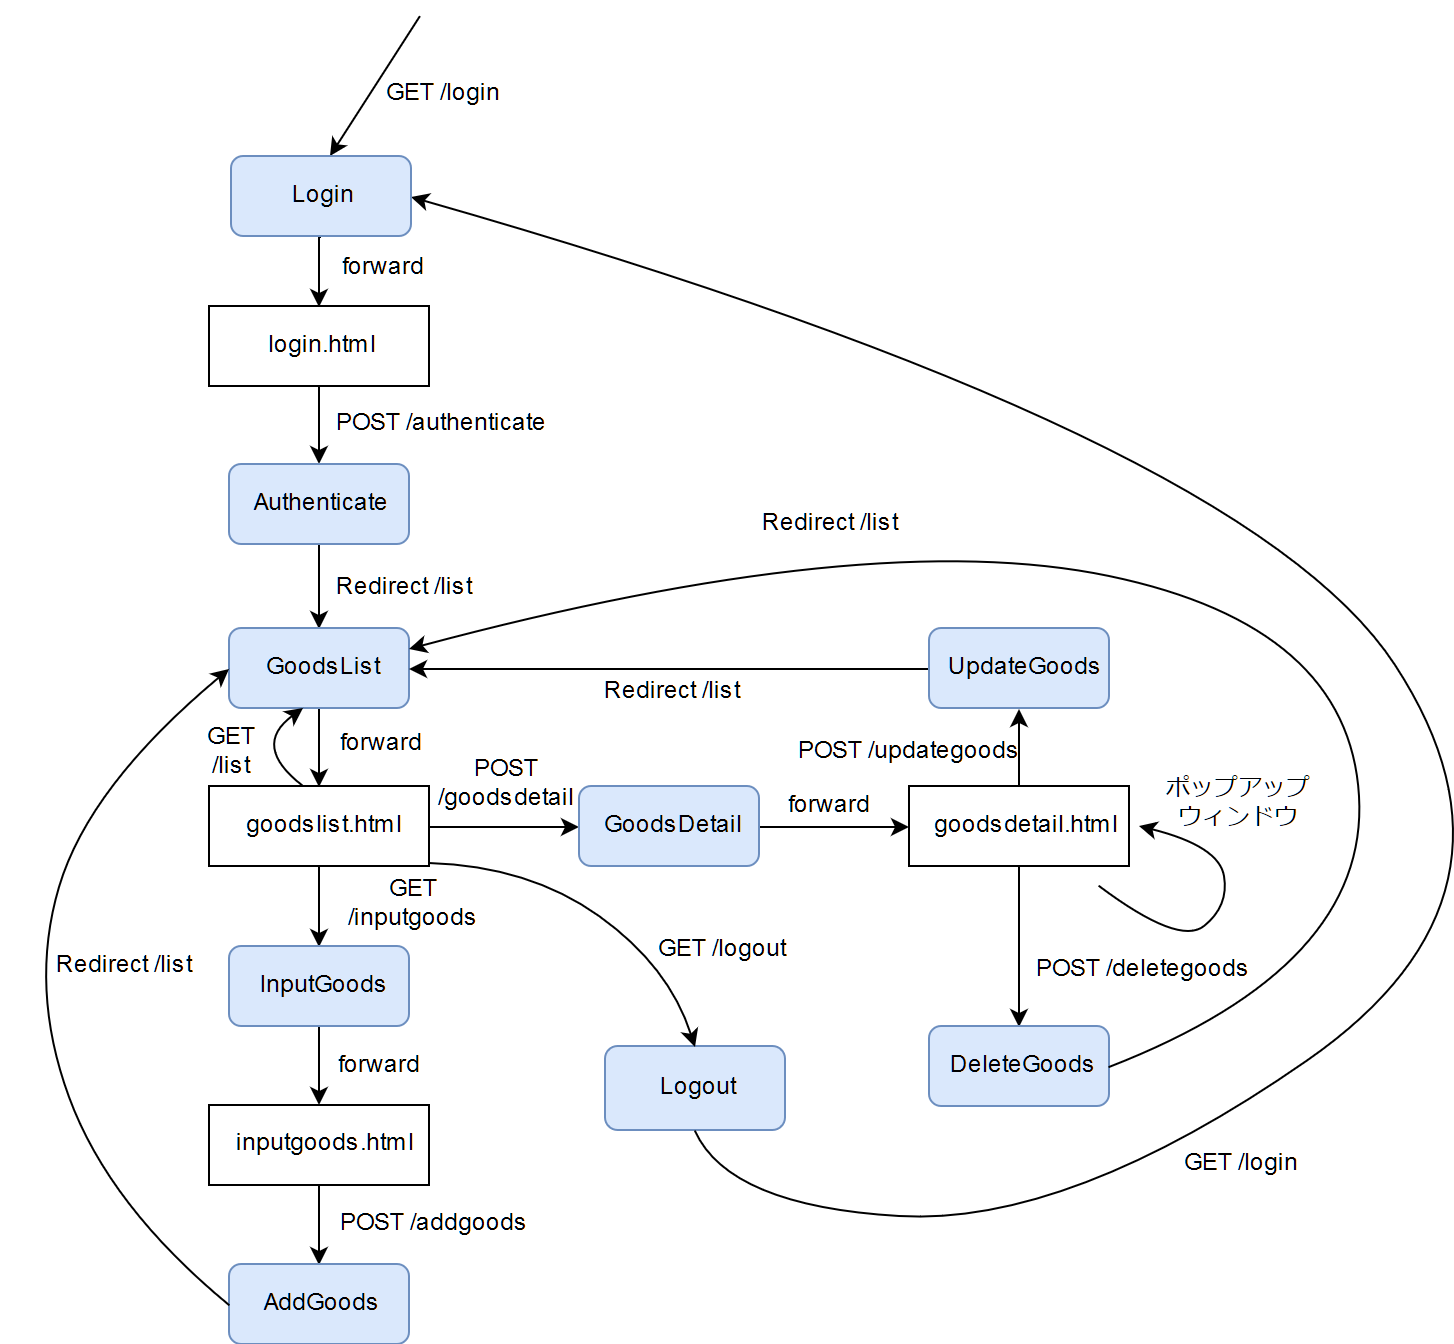
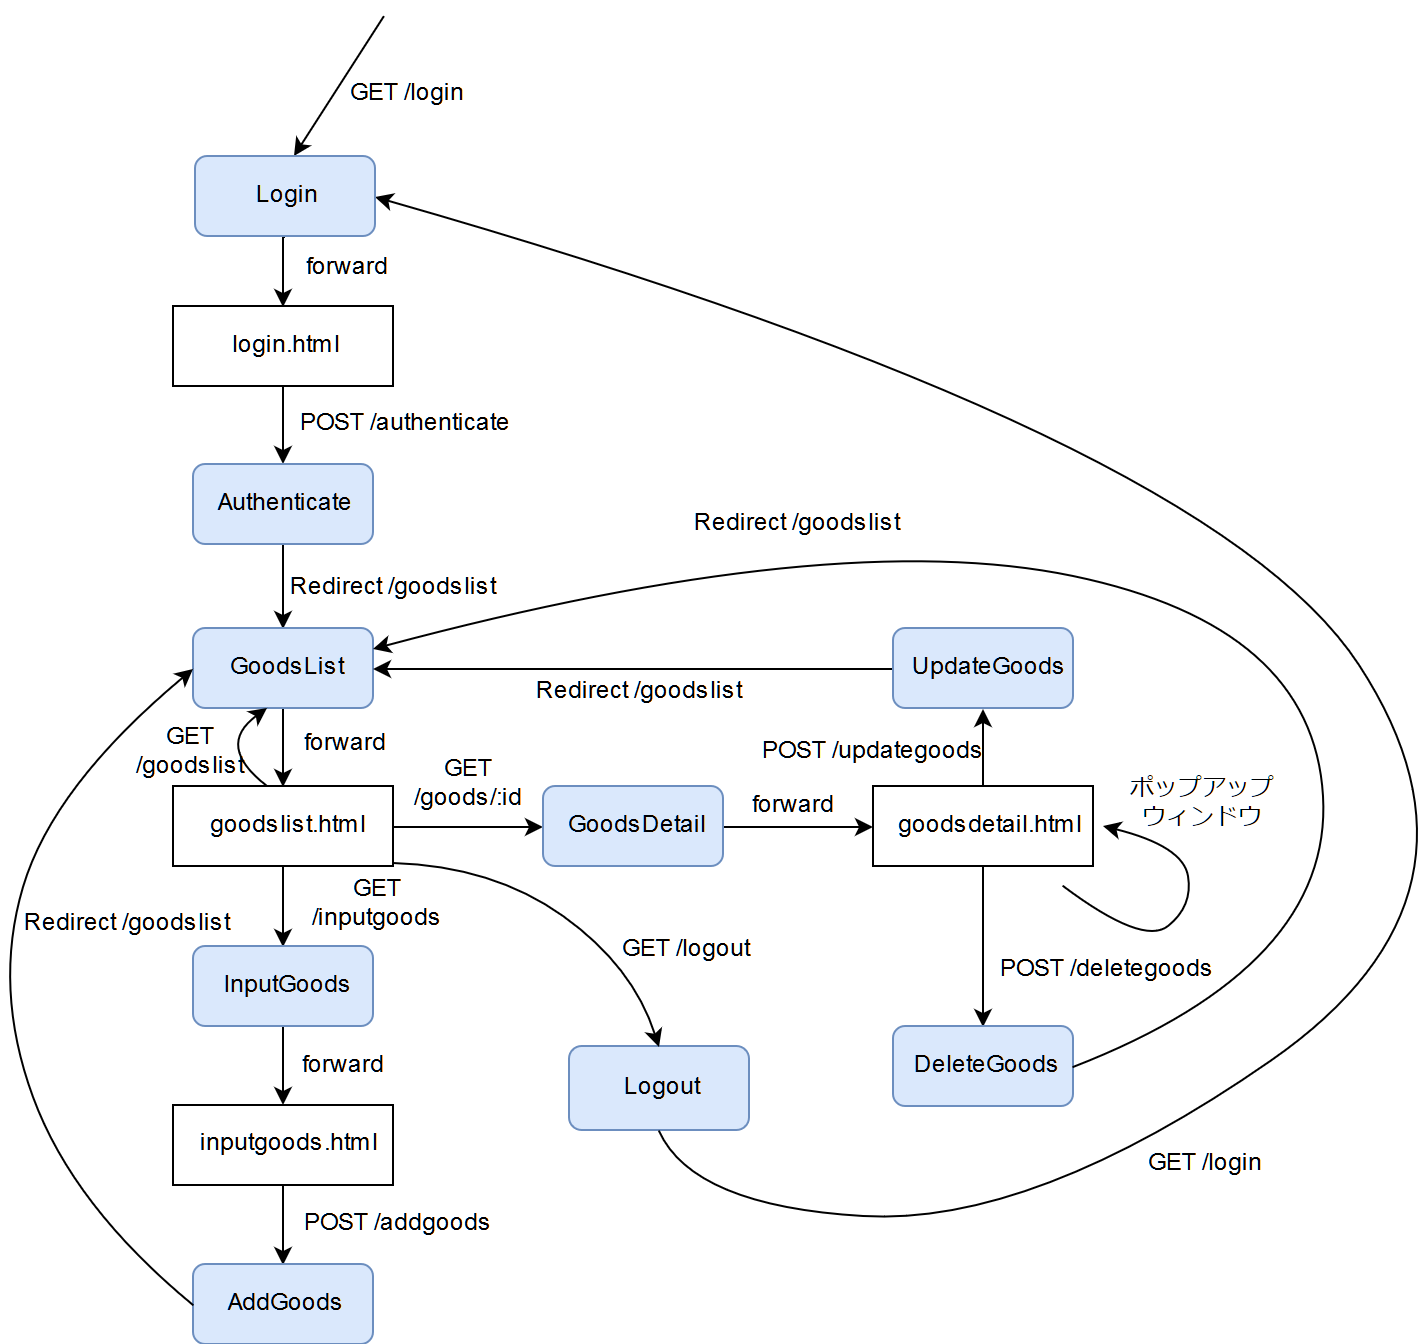
遷移先URLの変更
# Conflicts:
#	docker-compose.yml

diff --git a/go/view/goodslist.html b/go/view/goodslist.html
@@ -16,7 +16,7 @@
       <div class="panel-body">
 
         <div style="display:inline-flex">
-          <form class="form-inline" action="/list" method="GET">
+          <form class="form-inline" action="/goodslist" method="GET">
             <div class="form-group">
               <label class="control-label">商品名:</label>
               <input class="form-control" type="query" name="query" value="" />
@@ -24,7 +24,7 @@
             </div>
           </form>
           &nbsp;
-          <form class="form-inline" action="/list" method="GET">
+          <form class="form-inline" action="/goodslist" method="GET">
             <button class="btn btn-default">一覧</button>
           </form>
         </div>
@@ -54,8 +54,8 @@
               <td>{{ $goods.PurchasePrice }}</td>
               <td>{{ $goods.Stock }}</td>
               <td align="center">
-                <form action="/goodsdetail" method="post">
-                  <input type="hidden" name="goodsid" value={{$goods.GoodsID}}>
+                <form action="/goods/{{$goods.GoodsID}}" method="get">
+                  <!--<input type="hidden" name="goodsid" value={{$goods.GoodsID}}>-->
                   <button class="btn btn-default">詳細</button>
                 </form>
               </td>

diff --git a/go/main.go b/go/main.go
@@ -30,10 +30,10 @@ func main() {
 	router.GET("/login", controller.Login)                // ログインページの表示
 	router.GET("/logout", controller.Logout)              // ログアウト
 	router.POST("/authenticate", controller.Authenticate) // ログイン認証
-	router.GET("/list", controller.GoodsList)             // 商品リスト画面の表示
+	router.GET("/goodslist", controller.GoodsList)        // 商品リスト画面の表示
 	router.GET("/inputgoods", controller.InputGoods)      // 商品追加画面の表示
 	router.POST("/addgoods", controller.AddGoods)         // 商品の追加
-	router.POST("/goodsdetail", controller.GoodsDetail)   // 商品詳細画面の表示
+	router.GET("/goods/:id", controller.GoodsDetail)      // 商品詳細画面の表示
 	router.POST("/updategoods", controller.UpdateGoods)   // 商品情報の更新
 	router.POST("/deletegoods", controller.DeleteGoods)   // 商品情報の削除
 

diff --git a/go/controller/updategoods.go b/go/controller/updategoods.go
@@ -68,10 +68,11 @@ func UpdateGoods(w http.ResponseWriter, r *http.Request, p httprouter.Params) {
 	if flag {
 		// DBに接続、商品追加
 		goods.UpdateGoods()
+		// 商品一覧画面にリダイレクト
+		http.Redirect(w, r, "/goodslist", 301)
 	} else {
-		http.Redirect(w, r, "/list", 301)
+		// 入力エラー時
+		http.Redirect(w, r, "/goods/"+r.PostForm["goodsid"][0], 301)
 	}
 
-	// 商品一覧画面にリダイレクト
-	http.Redirect(w, r, "/list", 301)
 }

diff --git a/go/controller/goodsdetail.go b/go/controller/goodsdetail.go
@@ -32,10 +32,11 @@ func GoodsDetail(w http.ResponseWriter, r *http.Request, p httprouter.Params) {
 	displayGoodsDetail.Makers = model.SelectAllMaker()
 
 	// フォームの解析
-	r.ParseForm()
+	//r.ParseForm()
 
 	// GoodsIDの取得
-	goodsid, err := strconv.Atoi(r.PostForm["goodsid"][0])
+	//goodsid, err := strconv.Atoi(r.PostForm["goodsid"][0])
+	goodsid, err := strconv.Atoi(p.ByName("id"))
 	if err != nil {
 		log.Fatal(err)
 	}

diff --git a/go/controller/authenticate.go b/go/controller/authenticate.go
@@ -78,7 +78,7 @@ func Authenticate(w http.ResponseWriter, r *http.Request, p httprouter.Params) {
 			http.SetCookie(w, &cookie)
 
 			// 商品一覧ページにリダイレクト
-			http.Redirect(w, r, "/list", 302)
+			http.Redirect(w, r, "/goodslist", 302)
 
 		} else {
 			// 認証に失敗した場合

diff --git a/go/controller/deletegoods.go b/go/controller/deletegoods.go
@@ -29,5 +29,5 @@ func DeleteGoods(w http.ResponseWriter, r *http.Request, p httprouter.Params) {
 	model.DeleteGoods(goodsID)
 
 	// 商品一覧画面にリダイレクト
-	http.Redirect(w, r, "/list", 301)
+	http.Redirect(w, r, "/goodslist", 301)
 }

diff --git a/go/controller/addgoods.go b/go/controller/addgoods.go
@@ -71,5 +71,5 @@ func AddGoods(w http.ResponseWriter, r *http.Request, p httprouter.Params) {
 	}
 
 	// 商品一覧画面にリダイレクト
-	http.Redirect(w, r, "/list", 301)
+	http.Redirect(w, r, "/goodslist", 301)
 }
